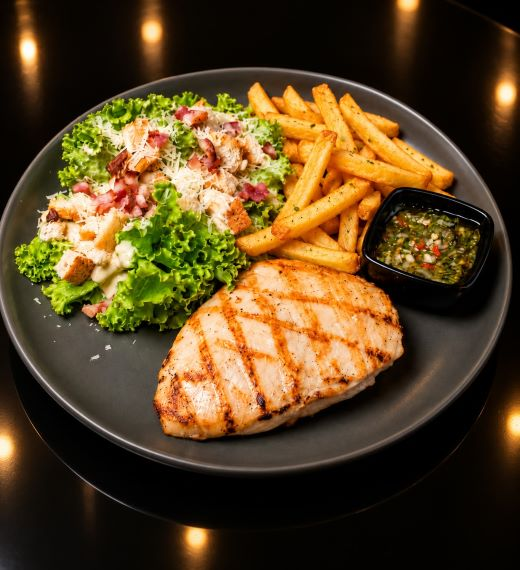
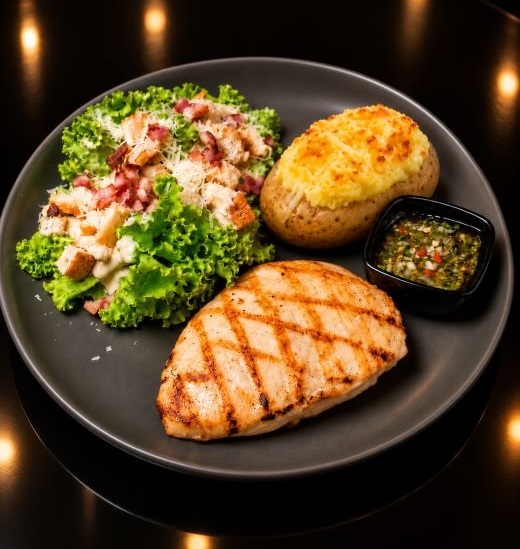
update plato navidad

diff --git a/src/main.py b/src/main.py
@@ -134,30 +134,31 @@ def main(page: ft.Page):
     page.scroll = ft.ScrollMode.AUTO
 
     # un dialog modal con un mensaje de bienvenida
-    # dialog =ft.AlertDialog(
-    #     bgcolor=ft.Colors.BLACK,
-    #     title=ft.Text("🍔 Ribs Burger"),
-    #     content=ft.Container(
-    #         content= ft.Column(
-    #             height=300,
-    #             controls=[
-    #                 #ft.Image(src='img/promos/burger_tributo.jpeg', fit=ft.ImageFit.COVER, width=350),
-    #                 ft.Text(
-    #                         "Ahora premiamos tu fidelidad cada mes 🎉\nCada visita cuenta para optar por muchos premios.\nRecuerda preguntar por nuestro programa coorporativo y de cumpleaños",
-    #                         #'Feliz día internacional de la Hamburguesa\npide Burger Tributo\nDisponible solo por hoy.',
-    #                         size=24,
-    #                         font_family="MiFuente",
-    #                         color="white",
-    #                         #text_align=ft.TextAlign.CENTER,
-    #                     ),
-    #             ]
-    #         )      
-    #     ) ,
+    dialog =ft.AlertDialog(
+        bgcolor=ft.Colors.BLACK,
+        title=ft.Text("🍔 Ribs Burger"),
+        content=ft.Container(
+            content= ft.Column(
+                scroll=ft.ScrollMode.ALWAYS,
+                width=300,
+                controls=[
+                    ft.Image(src='img/platos/plato_navidad.jpg', fit=ft.ImageFit.FILL),
+                    ft.Text(
+                            "Disfruta de nuestro plato navideño 🎉\nYa puedes agendar tus almuerzos o cenas corporativas\nó incluir tu plato navideño en cualquier ocación especial.",
+                            #'Feliz día internacional de la Hamburguesa\npide Burger Tributo\nDisponible solo por hoy.',
+                            size=20,
+                            font_family="MiFuente",
+                            color="white",
+                            #text_align=ft.TextAlign.CENTER,
+                        ),
+                ]
+            )      
+        ) ,
         
-    #     open=True,
-    # )
-    # page.add(dialog)
-    # page.open(dialog)
+        open=True,
+    )
+    page.add(dialog)
+    page.open(dialog)
 
     page.add(
         # barra_superior,

diff --git a/src/page/promociones.py b/src/page/promociones.py
@@ -35,25 +35,7 @@ def promociones_page(page, cambiar_pagina):
         #     •	CUATRO (4) LATA DE REFRESCO
         #      """,
         #      "price": "Precio 72.00"
-        # },
-        # {
-        #     "img": "img/promos/promo_trikillos.jpeg",
-        #     "title": "Trikillos Tex Mex",
-        #     "description": "De lunes a Miercoles: Deliciosos burritos rellenos de mix de carne & caraota roja, bañados con guacamole, pico de gallo, coronado con un toque de queso cheddar y de bebida un vaso de Nestea..",
-        #     "price": "Precio 10.44"
-        # },
-        # {
-        #     "img": "img/promos/promo_chili_con_carne.jpeg",
-        #     "title": "Nachos con Chili y Guacamole",
-        #     "description": "De lunes a Miercoles: Pidelo sin rodeos ni pensarlo: Nuestros nachos de maíz, son la base perfecta para una deliciosa combinación de  mix de carne & caraota roja, pico de gallo fresco, queso fundido. Todo ello bañado con una cremosa salsa guacamole, y de bebida un vaso de Nestea..",
-        #     "price": "Precio 10.44"
-        # },
-        # {
-        #     "img": "img/promoS/promo_tnt.jpeg",
-        #     "title": "Tnt Burger",
-        #     "description": "De lunes a Miercoles: Carne de res, tocineta, tomates confitados, queso crema empanizado, salsa de pimentón ahumado, acompañados de nuestras crujientes papas fritas y de bebida un vaso de Nestea.",
-        #     "price": "Precio 10.44"
-        # },
+        # }
 
     ]
 

diff --git a/src/page/platos.py b/src/page/platos.py
@@ -53,12 +53,12 @@ def platos_page(page, cambiar_pagina):
             "description": "Disfruta de nuestra suculenta parrilla, que combina lo mejor de la tradición con un toque especial. Lomito Grillado, pechuga de pollo, chorizo, morcilla, acompañado de pico de gallo, chimichurri, papas rusticas y una ensalada césar. (2 pers)",
             "price": "Precio 43.00",
         },
-        # {
-        #     "img": "img/promos/thegoldentable.jpg",
-        #     "title": "Ribs Golden Table",
-        #     "description": "Un provocatico mega rack de costilla (aproximadamente 1.6 kg), Fajitas, tres de nuestras Burger Premiun, 540 gr de nuestras crujientes papas fritas, una racion de ensalada cesar, acampañada de nuestras mejores salsas. ",
-        #     "price": "Precio 120.00",
-        # },
+        {
+            "img": "img/platos/plato_navidad.jpg",
+            "title": "Plato Navideño",
+            "description": "Hallaca artesanal, acompañada de un jugoso roll de jamón y a tu elección principal entre nuestro tierno asado negro en su reducción agridulce o el tradicional pernil horneado al punto. Se acompaña con nuestra cremosa ensalada rusa con un toque fresco de manzana. Y para cerrar esta experiencia la casa te invita un delicioso y tradicional dulce de lechoza por cortesía",
+            "price": "Precio 18.00",
+        },
         {
             "img": "./img/platos/solomo_grillado.jpg",
             "title": "Lomito Grillado",

diff --git a/src/components/categorias.py b/src/components/categorias.py
@@ -25,7 +25,7 @@ def lista_categorias(page: ft.Page):
             ft.Container(
                 content=ft.Column(
                     [
-                        ft.Image(src=categoria["imagen"], fit=ft.ImageFit.COVER, width=350,height=260 ),
+                        ft.Image(src=categoria["imagen"], fit=ft.ImageFit.FILL, width=350,height=260 ),
                         ft.Container(
                             content=ft.Text(categoria["titulo"], size=24, font_family="MiFuente", color="white", text_align=ft.TextAlign.CENTER),
                             alignment=ft.alignment.center,
@@ -33,7 +33,7 @@ def lista_categorias(page: ft.Page):
                         )
                     ]
                 ),
-                col={"xs": 6, "sm": 6, "md": 4, "lg": 3, "xl": 3},
+                col={"xs": 6, "sm": 6, "md": 5, "lg": 4, "xl": 3},
                 height=350,
                 border_radius=ft.border_radius.all(8),
                 padding=8,

diff --git a/README.md b/README.md
@@ -6,7 +6,7 @@
 ### Ejecutar app
 
 * flet run main.py
-
+* flet publish   
 * python -m http.server --directory build\web
 
 ### Complilar app
